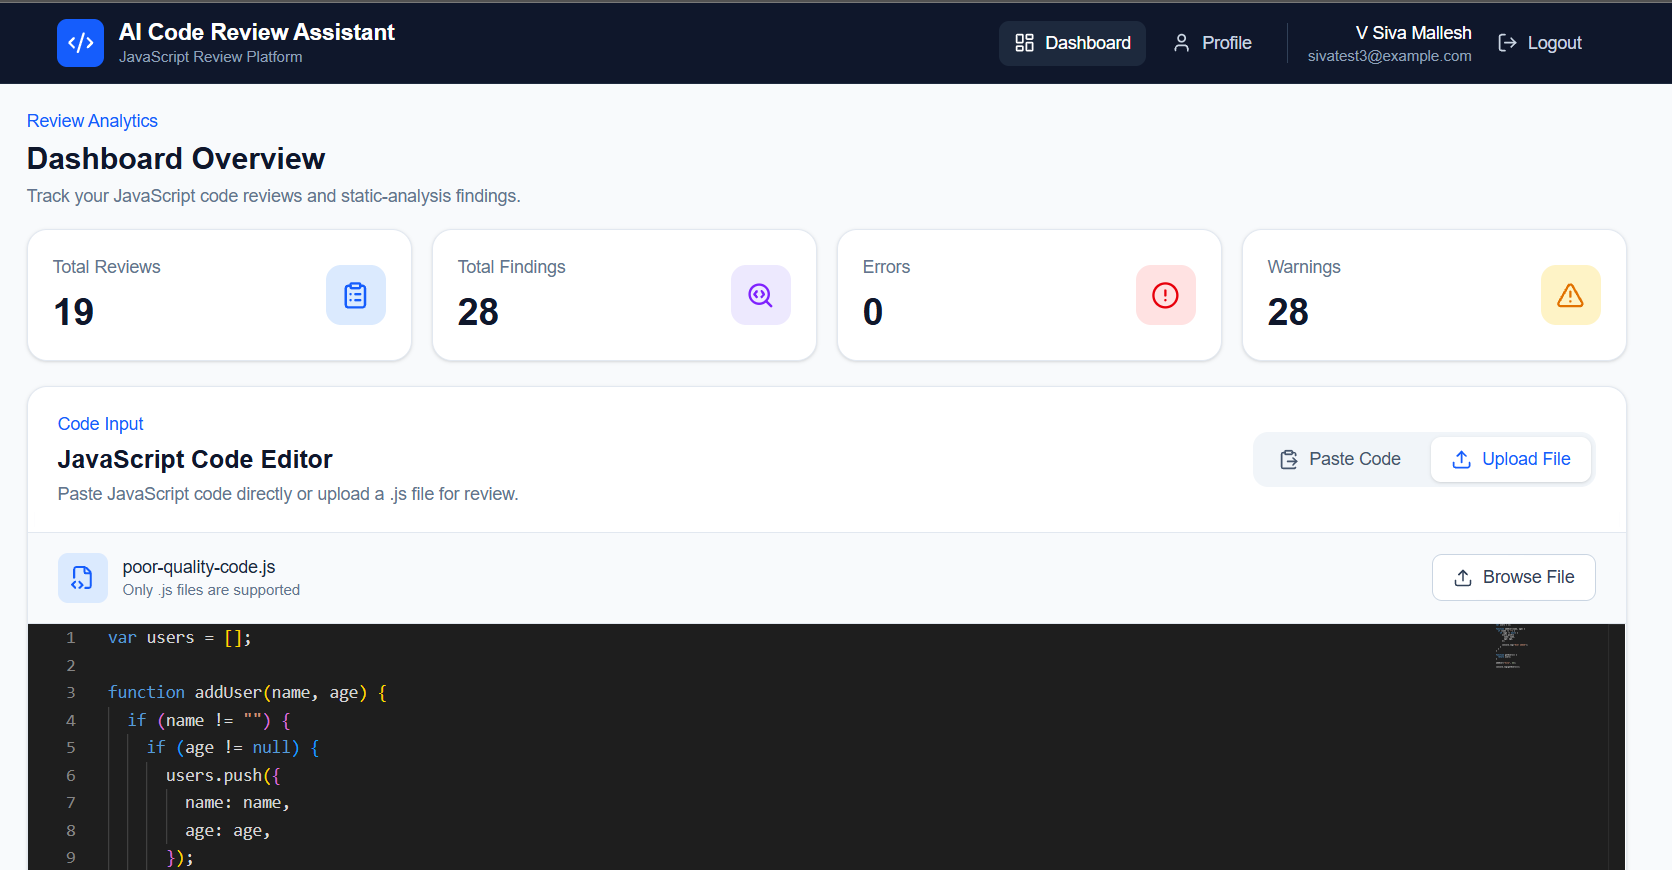
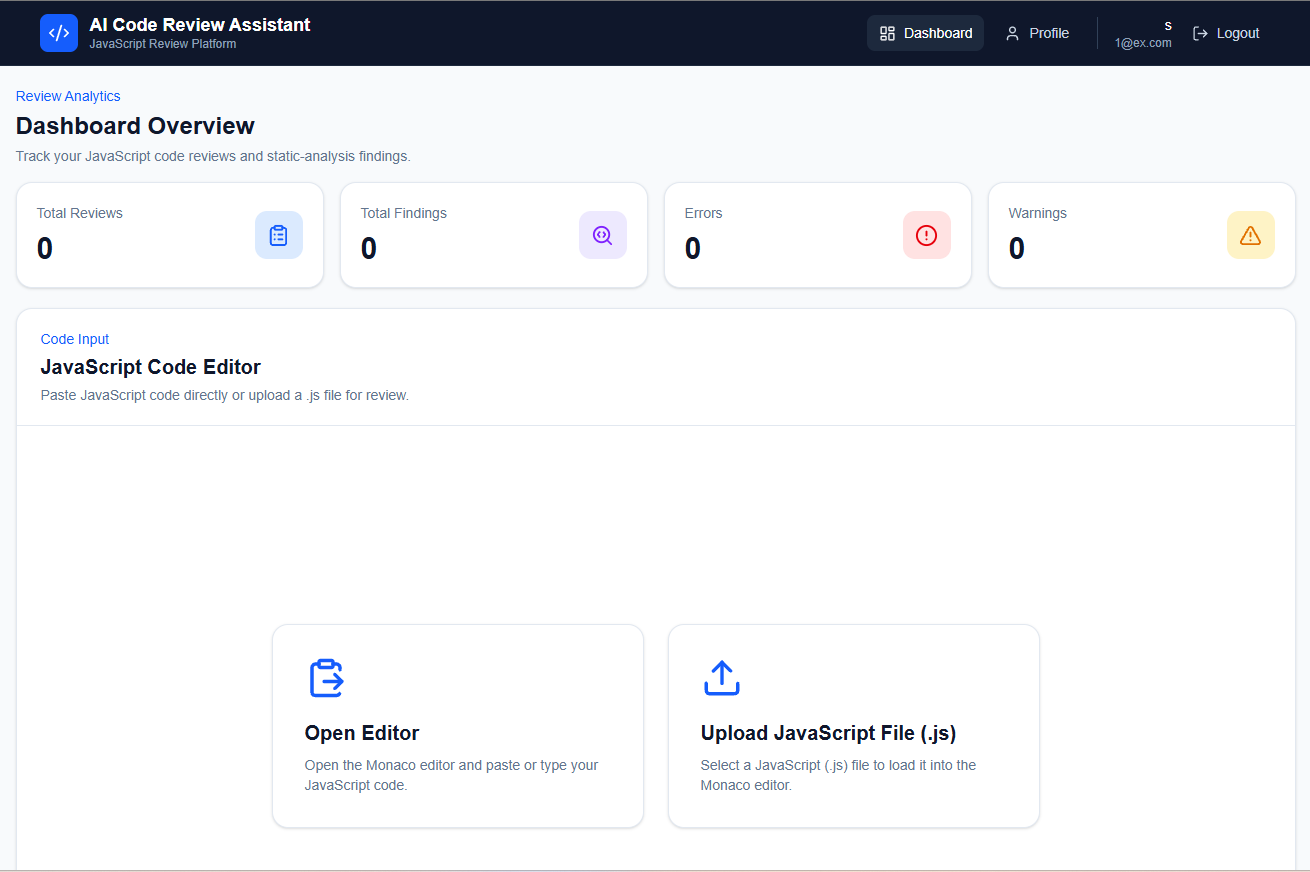
Added README screenshots

diff --git a/README.md b/README.md
@@ -414,6 +414,7 @@ Through this project, I strengthened my understanding of:
 
 # 📸 Screenshots
 
+<<<<<<< HEAD
 > **Add screenshots here before final submission.**
 
 Suggested screenshots:
@@ -465,6 +466,92 @@ https://github.com/siva998152
 
 🚀 Future enhancements are planned for upcoming versions.
 
+=======
+## 📸 Login Page
+
+![Login](screenshots/login.png)
+
+---
+
+## 📸 Register Page
+
+![Register](screenshots/register.png)
+
+---
+
+## 📸 Dashboard
+
+![Dashboard](screenshots/dashboard.png)
+
+---
+
+## 📸 Static Analysis
+
+![Static Analysis](screenshots/static-analysis.png)
+
+---
+
+## 📸 AI Review
+
+![AI Review](screenshots/ai-review.png)
+
+---
+
+## 📸 Review History
+
+![History](screenshots/history.png)
+
+---
+
+## 📸 Profile
+
+![Profile](screenshots/profile.png)
+
+---
+
+## 📸 PDF Report
+
+![PDF](screenshots/pdf-report.png)
+![PDF](screenshots/pdf-report(2).png)
+---
+
+# 👨💻 Author
+
+**V. Siva Mallesh**
+
+Computer Science & Engineering Student
+
+Passionate about **Full-Stack Development, Cloud Computing, and Artificial Intelligence**.
+
+**GitHub:**
+https://github.com/siva998152
+
+**LinkedIn:**
+(Add your LinkedIn Profile)
+
+---
+
+# 📌 Project Status
+
+✅ Authentication Completed
+
+✅ Profile Management Completed
+
+✅ AI Review Completed
+
+✅ ESLint Static Analysis Completed
+
+✅ Dashboard Analytics Completed
+
+✅ Review History Completed
+
+✅ PDF Export Completed
+
+✅ Deployment Completed
+
+🚀 Future enhancements are planned for upcoming versions.
+
+>>>>>>> 45992cc (Added README screenshots)
 ---
 
 # ☁ Deployment
